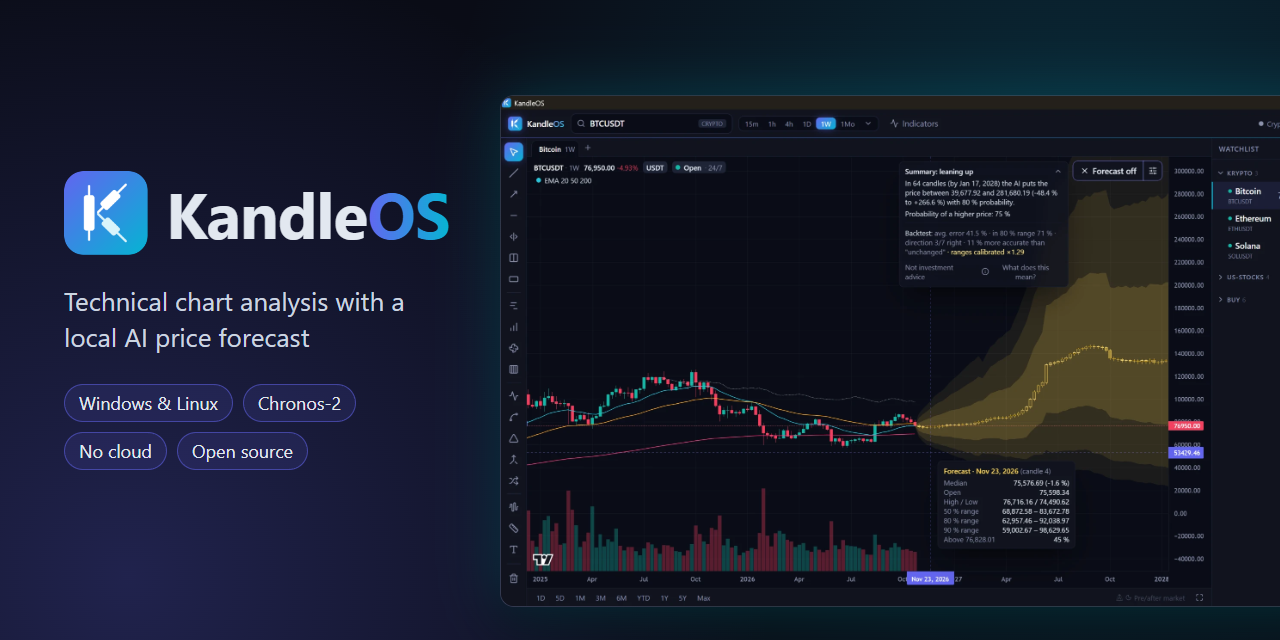
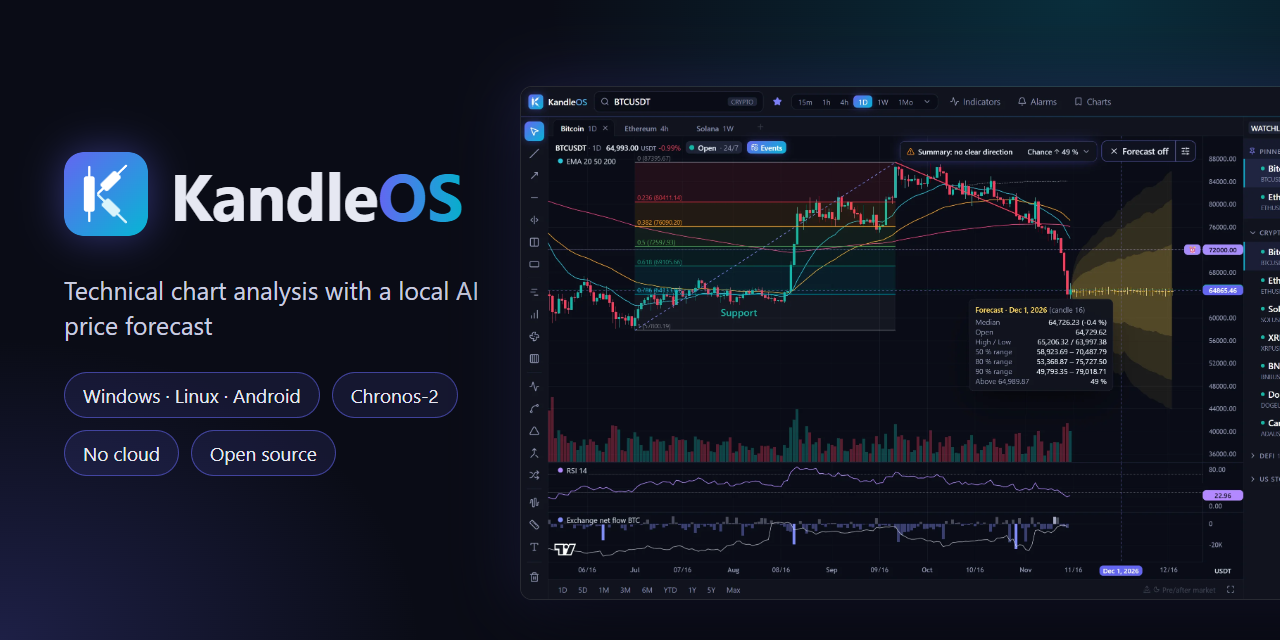
README: neuer Screenshot und neue Social Preview

diff --git a/README.md b/README.md
@@ -21,7 +21,7 @@ https://github.com/user-attachments/assets/08937b61-0954-4af9-a7fc-89ec120ba1f5
 
 
 
-![KandleOS with a calibrated Chronos-2 forecast for Bitcoin (weekly candles): forecast candles, uncertainty ranges, the forecast summary, the values of one forecast step and colored drawings](docs/screenshot.webp)
+![KandleOS with Bitcoin on daily candles: a calibrated Chronos-2 forecast with uncertainty ranges and the values of one forecast step, EMA 20/50/200, RSI, the daily flow of BTC onto and off exchanges, Fibonacci and trend line drawings, a price alarm, three chart tabs and the watchlist with pinned values and folders](docs/screenshot.webp)
 
 ## Why KandleOS?
 
